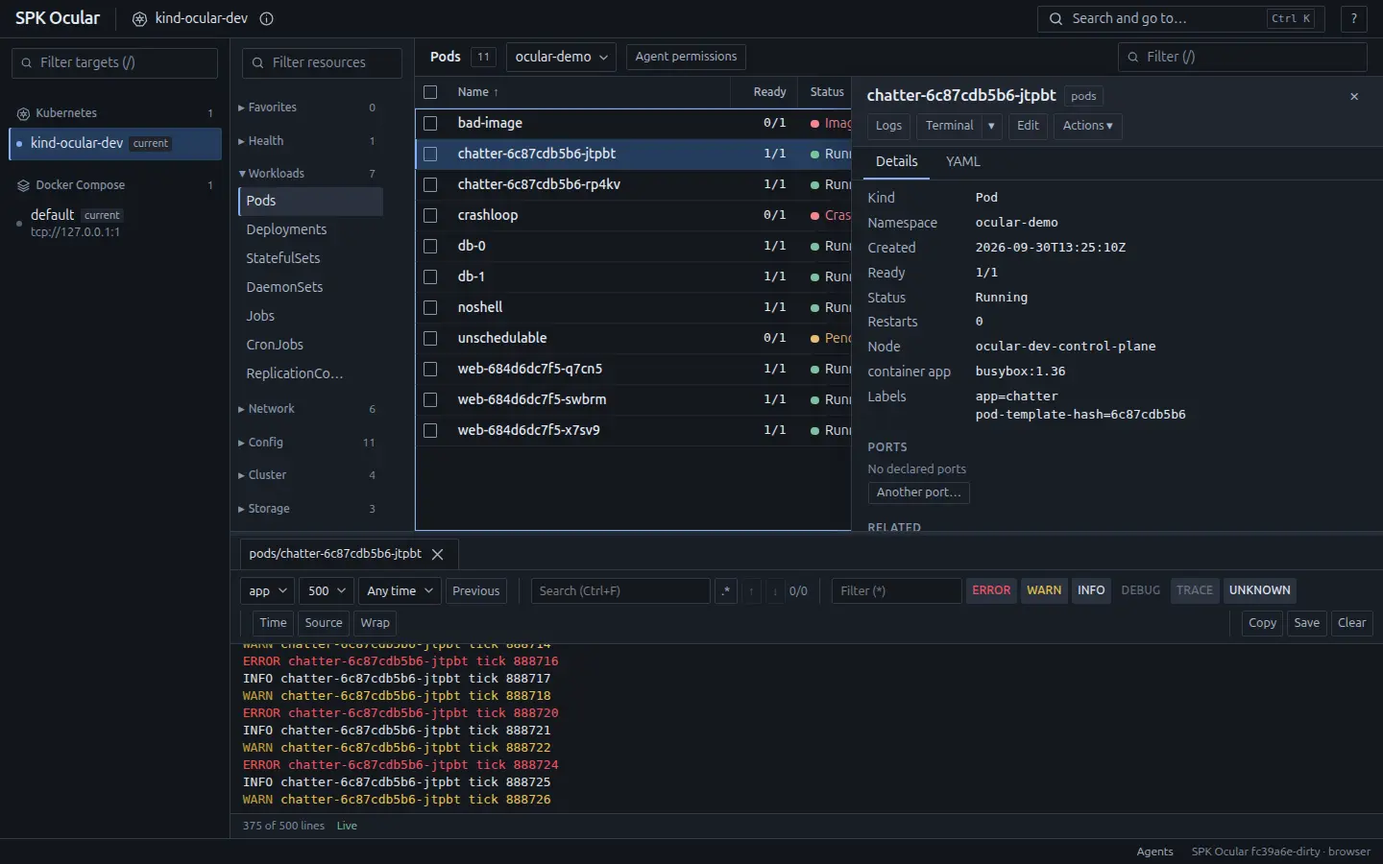
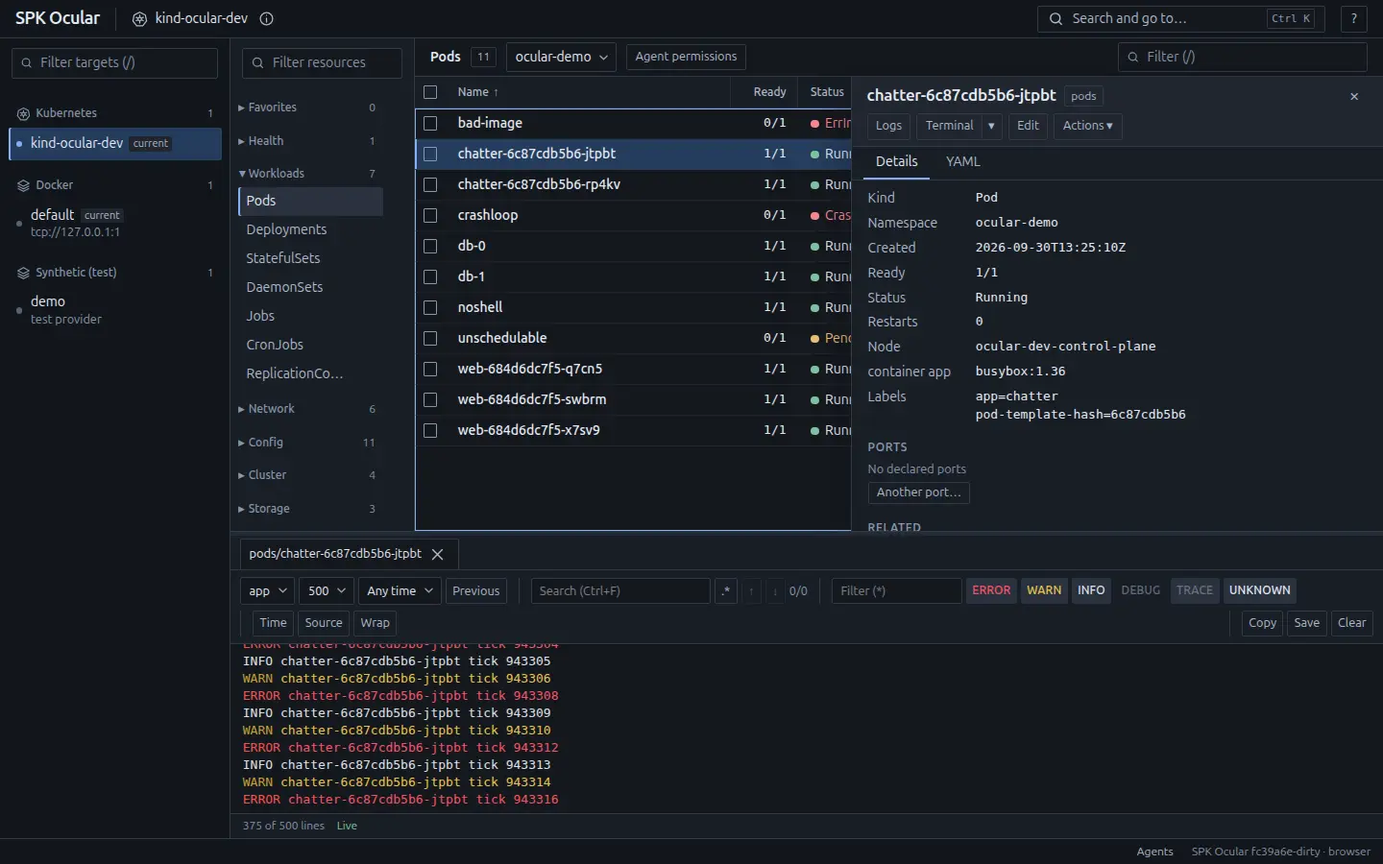
Present Kubernetes and Docker with current product screenshots

diff --git a/src/i18n/copy.ts b/src/i18n/copy.ts
@@ -1,13 +1,13 @@
 export const en = {
-  title: 'SPK Ocular | Free Kubernetes & Docker Compose desktop app',
-  description: 'Inspect Kubernetes and Docker Compose, follow logs and manage Helm releases in one desktop app. All features free for individuals and businesses of any size.',
+  title: 'SPK Ocular | Free Kubernetes & Docker desktop app',
+  description: 'Inspect Kubernetes and Docker, follow logs and manage Helm releases in one desktop app. All features free for individuals and businesses of any size.',
   nav: ['Features', 'Interface', 'Free for everyone'], docs: 'Docs', download: 'Download', theme: 'Switch theme', menu: 'Menu', skip: 'Skip to content',
   eyebrow: 'THE DESKTOP WORKSPACE FOR YOUR INFRASTRUCTURE',
-  hero: ['Kubernetes & Compose.', 'One clear workspace.'],
+  hero: ['Kubernetes & Docker.', 'One clear workspace.'],
   lead: 'Find failing workloads. Follow their logs. Manage your Helm releases. Stay with the problem, from the first warning to the next change.',
   explore: 'See it in action', freeShort: 'All features free. For you and your company.', platforms: 'Linux, Windows & macOS · x86-64 & ARM64',
   heroCaption: 'Your workloads, in focus.', demo: 'Actual app · local demo cluster', syntheticDemo: 'Actual app · simulated Helm release', fullImage: 'Open full-size screenshot',
-  facts: [['Kubernetes + Compose', 'One place for daily operations'], ['No account required', 'Direct access from your computer'], ['Free for any company', 'No revenue or funding limits']],
+  facts: [['Kubernetes + Docker', 'One place for daily operations'], ['No account required', 'Direct access from your computer'], ['Free for any company', 'No revenue or funding limits']],
   overview: 'From “what failed?” to “what next?”', overviewText: 'The details you need to investigate and act, without piecing together a dozen separate windows.',
   workflows: [
     { label: '01 / INVESTIGATE', title: 'Find the workload that needs you.', text: 'Spot unhealthy resources, open related objects and inspect their configuration. See errors and gaps in observation alongside the data you can access.', points: ['Resource health, events and relationships', 'Namespace selection, search and favorites', 'YAML and live resource details'], image: 'health', alt: 'SPK Ocular Problems view on a local Kubernetes demonstration cluster', link: 'Explore resource inspection' },
@@ -15,14 +15,14 @@ export const en = {
     { label: '03 / SHIP & RECOVER', title: 'Helm, from install to rollback.', text: 'Browse charts, choose a version and edit values. Review an upgrade before you run it, inspect release history or roll back to an earlier revision.', points: ['Chart repositories and OCI registries', 'Install, upgrade, rollback and uninstall', 'Embedded Helm. No separate CLI required.'], image: 'helm', alt: 'SPK Ocular Helm release details with values and revision history', link: 'Explore Helm' },
   ],
   toolsTitle: 'The everyday tools, already here.',
-  tools: [['Kubernetes resources', 'Pods, deployments, services and custom resources, with details and relationships.'], ['Docker Compose', 'Inspect existing projects, services and containers alongside your clusters.'], ['Reviewed changes', 'Inspect a change before applying it. Existing infrastructure permissions still apply.'], ['A workspace that remembers', 'Keep namespace selections, filters, favorites and column widths between visits.']],
+  tools: [['Kubernetes resources', 'Pods, deployments, services and custom resources, with details and relationships.'], ['Docker', 'Inspect standalone containers alongside Compose projects and services. Follow logs, open a terminal and review container actions.'], ['Reviewed changes', 'Inspect a change before applying it. Existing infrastructure permissions still apply.'], ['A workspace that remembers', 'Keep namespace selections, filters, favorites and column widths between visits.']],
   gallery: 'A closer look at your next workspace.', galleryText: 'Real screens from the current development build. Demo data, not product mockups.',
-  galleryTabs: ['Workloads', 'Logs & details', 'Helm releases'],
-  galleryAlts: ['Kubernetes pods and health in SPK Ocular on a local demo cluster', 'Kubernetes resource details and application logs in SPK Ocular', 'Helm release values in SPK Ocular using a simulated release'],
+  galleryTabs: ['Workloads', 'Logs & details', 'Helm releases', 'Docker containers'],
+  galleryAlts: ['Kubernetes pods and health in SPK Ocular on a local demo cluster', 'Kubernetes resource details and application logs in SPK Ocular', 'Helm release values in SPK Ocular using a simulated release', 'Standalone Docker container and Compose containers in SPK Ocular on a local demo engine'],
   agentLabel: 'YOUR AGENTS. YOUR RULES.', agentTitle: 'Give your agent useful access. Keep control of changes.',
   agentText: 'Let local coding agents inspect the environment through Ocular. Choose the namespaces, resource kinds and operations they can use, and review actions that require your approval.',
   agentSteps: [['Scope access', 'Choose an environment, namespaces and operations.'], ['Inspect together', 'Give the agent resource and log context for its investigation.'], ['Review the action', 'Approve protected changes, or pause access when the work is done.']],
-  agentBoundary: 'Permissions are shared by local agents running as your OS user. They are not isolated identities or a sandbox.', agentDocs: 'How agent access works',
+  agentBoundary: 'Permissions are shared by local agents running as your OS user. They are not isolated identities or a sandbox. Standalone Docker containers are currently available in the UI only; project grants do not include them.', agentDocs: 'How agent access works',
   localTitle: 'Your infrastructure stays yours.', localText: 'Ocular uses your kubeconfig and Docker contexts and connects directly from your computer. No Ocular account, central management server or in-cluster Ocular component is required.',
   localPoints: [['Your existing access', 'Use the credentials and permissions already configured for your environments.'], ['Open source', 'Read the code, report a bug or contribute under Apache 2.0.']],
   freeLabel: 'NO PAID TIER', freeTitle: 'Every feature. Everyone.', freeText: 'Free for individuals, teams and companies of any size. No limits based on revenue or funding. No seats to license and no features to unlock.',
@@ -35,23 +35,23 @@ export const en = {
   faqTitle: 'Before you make yourself at home.', faqs: [
     ['Is it really free for commercial use?', 'Yes. All features are free for individuals and companies, regardless of size, revenue or funding. There is no paid tier, trial expiry or per-seat subscription. Voluntary cryptocurrency donations support development.'],
     ['Do I need to install anything in my cluster?', 'No Ocular server or cluster component is required. The app uses your existing Kubernetes access. Some capabilities depend on services in your cluster, such as metrics-server for resource metrics.'],
-    ['Does Ocular replace Docker Desktop?', 'No. Ocular works with existing Docker environments and Compose projects. It does not provide a container engine or a virtual machine.'],
+    ['Does Ocular replace Docker Desktop?', 'No. Ocular works with existing Docker engines, standalone containers and Compose projects. It does not provide a container engine or a virtual machine.'],
     ['Do I need to install Helm separately?', 'No. Ocular embeds Helm for browsing charts and managing releases. Kubernetes permissions and access to the chart repository are still required.'],
     ['Can I use it with my coding agent?', 'Yes, through the local agent API. You grant access to selected environments, scopes and operations. Protected writes require review. Grants apply to agents running as your OS user, not authenticated individual agent identities.'],
   ],
-  footer: 'Kubernetes and Compose. On your terms.', source: 'Source code', issues: 'Report an issue', license: 'Apache 2.0',
+  footer: 'Kubernetes and Docker. On your terms.', source: 'Source code', issues: 'Report an issue', license: 'Apache 2.0',
 };
 export type Copy = typeof en;
 export const ru: Copy = {
-  title: 'SPK Ocular | Бесплатное приложение для Kubernetes и Docker Compose',
-  description: 'Kubernetes, Docker Compose, логи и Helm в одном приложении. Все функции бесплатны для людей и компаний любого размера, оборота и финансирования.',
+  title: 'SPK Ocular | Бесплатное приложение для Kubernetes и Docker',
+  description: 'Kubernetes, Docker, логи и Helm в одном приложении. Все функции бесплатны для людей и компаний любого размера, оборота и финансирования.',
   nav: ['Возможности', 'Интерфейс', 'Бесплатно для всех'], docs: 'Документация', download: 'Скачать', theme: 'Сменить тему', menu: 'Меню', skip: 'К содержимому',
   eyebrow: 'РАБОЧЕЕ МЕСТО ДЛЯ ВАШЕЙ ИНФРАСТРУКТУРЫ',
-  hero: ['Kubernetes и Compose.', 'В одном окне.'],
+  hero: ['Kubernetes и Docker.', 'В одном окне.'],
   lead: 'Находите проблемные ресурсы. Разбирайте логи. Управляйте релизами Helm. Всё для работы с окружением: от первого предупреждения до следующего изменения.',
   explore: 'Посмотреть в деле', freeShort: 'Все функции бесплатны. Для вас и вашей компании.', platforms: 'Linux, Windows и macOS · x86-64 и ARM64',
   heroCaption: 'Рабочие нагрузки в центре внимания.', demo: 'Настоящее приложение · локальный демостенд', syntheticDemo: 'Настоящее приложение · тестовый релиз Helm', fullImage: 'Открыть скриншот в полном размере',
-  facts: [['Kubernetes + Compose', 'Единое рабочее пространство'], ['Без аккаунта', 'Прямой доступ с вашего компьютера'], ['Бесплатно для бизнеса', 'Без ограничений по обороту и инвестициям']],
+  facts: [['Kubernetes + Docker', 'Единое рабочее пространство'], ['Без аккаунта', 'Прямой доступ с вашего компьютера'], ['Бесплатно для бизнеса', 'Без ограничений по обороту и инвестициям']],
   overview: 'От «что сломалось?» к «что делать?»', overviewText: 'Ресурсы, события и инструменты для диагностики рядом. Не нужно собирать картину из десятка отдельных окон.',
   workflows: [
     { label: '01 / ДИАГНОСТИКА', title: 'Найдите то, что требует внимания.', text: 'Замечайте проблемы в ресурсах, переходите к связанным объектам и проверяйте конфигурацию. Ошибки доступа и пробелы в наблюдении видны рядом с доступными данными.', points: ['Состояние ресурсов, события и связи', 'Выбор пространств имён, поиск и избранное', 'YAML и актуальные сведения об объектах'], image: 'health', alt: 'Раздел Problems в SPK Ocular с ресурсами локального демостенда Kubernetes', link: 'Подробнее о работе с ресурсами' },
@@ -59,14 +59,14 @@ export const ru: Copy = {
     { label: '03 / РЕЛИЗЫ', title: 'Helm: от установки до отката.', text: 'Выбирайте чарт и версию, редактируйте values и проверяйте обновление перед запуском. История релизов и откат к предыдущей ревизии доступны в том же окне.', points: ['Репозитории чартов и OCI-реестры', 'Установка, обновление, откат и удаление', 'Helm встроен. Отдельный CLI не нужен.'], image: 'helm', alt: 'Карточка релиза Helm в SPK Ocular со значениями и историей ревизий', link: 'Подробнее о Helm' },
   ],
   toolsTitle: 'Рабочие инструменты уже на месте.',
-  tools: [['Ресурсы Kubernetes', 'Pods, deployments, services и пользовательские ресурсы с подробностями и связями.'], ['Docker Compose', 'Существующие проекты, сервисы и контейнеры рядом с вашими кластерами.'], ['Проверка изменений', 'Просматривайте изменения перед применением. Права доступа инфраструктуры продолжают действовать.'], ['Рабочее место с памятью', 'Выбранные пространства имён, фильтры, избранное и ширины колонок сохраняются.']],
+  tools: [['Ресурсы Kubernetes', 'Pods, deployments, services и пользовательские ресурсы с подробностями и связями.'], ['Docker', 'Отдельные контейнеры и проекты с сервисами Compose. Просматривайте логи, открывайте терминал и проверяйте действия с контейнерами.'], ['Проверка изменений', 'Просматривайте изменения перед применением. Права доступа инфраструктуры продолжают действовать.'], ['Рабочее место с памятью', 'Выбранные пространства имён, фильтры, избранное и ширины колонок сохраняются.']],
   gallery: 'Посмотрите, как это устроено.', galleryText: 'Реальные экраны текущей сборки разработки. Демонстрационные данные, не макеты продукта.',
-  galleryTabs: ['Рабочие нагрузки', 'Логи и детали', 'Релизы Helm'],
-  galleryAlts: ['Pods Kubernetes и их состояния в SPK Ocular на локальном демостенде', 'Детали ресурса Kubernetes и логи приложения в SPK Ocular', 'Значения тестового релиза Helm в SPK Ocular'],
+  galleryTabs: ['Рабочие нагрузки', 'Логи и детали', 'Релизы Helm', 'Контейнеры Docker'],
+  galleryAlts: ['Pods Kubernetes и их состояния в SPK Ocular на локальном демостенде', 'Детали ресурса Kubernetes и логи приложения в SPK Ocular', 'Значения тестового релиза Helm в SPK Ocular', 'Отдельный контейнер Docker и контейнеры Compose в SPK Ocular на локальном демостенде'],
   agentLabel: 'ВАШИ АГЕНТЫ. ВАШИ ПРАВИЛА.', agentTitle: 'Дайте агенту контекст. Оставьте контроль себе.',
   agentText: 'Локальные агенты для разработки могут изучать окружение через Ocular. Вы выбираете пространства имён, типы ресурсов и операции, а действия, требующие вашего согласия, проходят подтверждение.',
   agentSteps: [['Задайте границы', 'Выберите окружение, пространства имён и операции.'], ['Разбирайтесь вместе', 'Дайте агенту доступ к ресурсам и логам для диагностики.'], ['Проверьте действие', 'Подтвердите защищённое изменение или приостановите доступ.']],
-  agentBoundary: 'Разрешения общие для локальных агентов вашего пользователя ОС. Это не отдельные учётные записи и не песочница.', agentDocs: 'Как устроен доступ агентов',
+  agentBoundary: 'Разрешения общие для локальных агентов вашего пользователя ОС. Это не отдельные учётные записи и не песочница. Отдельные контейнеры Docker пока доступны только в интерфейсе; разрешения на проекты их не включают.', agentDocs: 'Как устроен доступ агентов',
   localTitle: 'Ваша инфраструктура остаётся вашей.', localText: 'Ocular использует ваши kubeconfig и Docker contexts и обращается к окружениям напрямую с компьютера. Без аккаунта Ocular, центрального сервера управления и установки компонентов Ocular в кластер.',
   localPoints: [['Привычный доступ', 'Работайте с уже настроенными учётными данными и правами ваших окружений.'], ['Открытый код', 'Изучайте исходники, сообщайте об ошибках и участвуйте в разработке по лицензии Apache 2.0.']],
   freeLabel: 'БЕЗ ПЛАТНЫХ ТАРИФОВ', freeTitle: 'Все возможности. Для всех.', freeText: 'Бесплатно для людей, команд и компаний любого размера. Без ограничений по обороту или инвестициям, оплаты за рабочие места и закрытых функций.',
@@ -79,10 +79,10 @@ export const ru: Copy = {
   faqTitle: 'Перед началом работы.', faqs: [
     ['Можно бесплатно использовать в компании?', 'Да. Все функции бесплатны для людей и компаний любого размера, оборота и объёма финансирования. Нет платного тарифа, пробного периода или подписки за рабочие места. Разработку поддерживают добровольные криптопожертвования.'],
     ['Нужно что-то устанавливать в кластер?', 'Сервер или компоненты Ocular не нужны. Приложение использует ваш существующий доступ к Kubernetes. Некоторые возможности зависят от сервисов кластера, например метрики ресурсов требуют metrics-server.'],
-    ['Ocular заменяет Docker Desktop?', 'Нет. Ocular работает с существующими Docker-окружениями и проектами Compose. Приложение не предоставляет контейнерный движок или виртуальную машину.'],
+    ['Ocular заменяет Docker Desktop?', 'Нет. Ocular работает с существующими движками Docker, отдельными контейнерами и проектами Compose. Приложение не предоставляет контейнерный движок или виртуальную машину.'],
     ['Нужно отдельно устанавливать Helm?', 'Нет. Helm встроен в Ocular: можно просматривать чарты и управлять релизами. Права в Kubernetes и доступ к репозиторию чартов по-прежнему необходимы.'],
     ['Можно работать через своего агента для разработки?', 'Да, через локальный API агентов. Вы разрешаете доступ к выбранным окружениям, пространствам имён и операциям. Защищённые изменения требуют подтверждения. Разрешения относятся к агентам вашего пользователя ОС, а не к отдельным аутентифицированным личностям агентов.'],
   ],
-  footer: 'Kubernetes и Compose. Ваше рабочее пространство.', source: 'Исходный код', issues: 'Сообщить об ошибке', license: 'Apache 2.0',
+  footer: 'Kubernetes и Docker. Ваше рабочее пространство.', source: 'Исходный код', issues: 'Сообщить об ошибке', license: 'Apache 2.0',
 };
 export const copy = (lang: 'ru' | 'en') => lang === 'ru' ? ru : en;

diff --git a/README.md b/README.md
@@ -5,7 +5,7 @@ lives on `master`; this worktree does not change its builds or release history.
 
 Astro generates Russian (`/spk-ocular/`) and English (`/spk-ocular/en/`) pages.
 The site keeps Ocular’s logo, variable Inter typography, blue accent and matching
-light/dark colors. Its product-led layout leads with Kubernetes + Docker Compose,
+light/dark colors. Its product-led layout leads with Kubernetes + Docker,
 a large real app screen and unrestricted free commercial use. Investigation,
 logs/terminal/forwarding, Helm and scoped local agent access have dedicated
 sections. Connection retries and low-level persistence mechanics belong in the
@@ -28,9 +28,11 @@ code because the owner has not supplied verified wallet/network details.
 
 Local agent grants apply to processes running as the same OS user. Do not imply
 separate authenticated agent identities or a security sandbox. Kubernetes and
-Compose capabilities are distinct from providing a container runtime. The Helm
+Docker capabilities are distinct from providing a container runtime. The Helm
 section describes the implemented development build, not a separately verified
-published release. The gallery explicitly identifies development screenshots.
+published release. Docker includes standalone containers and Compose project/service
+grouping; it does not supply a runtime. Standalone containers remain UI-only and
+are not included in existing agent project grants. The gallery explicitly identifies development screenshots.
 
 Design references: [Aptakube](https://aptakube.com/) for task-led feature stories
 and large product screens, [Lens](https://lenshq.io/) for product hierarchy, and
@@ -80,7 +82,9 @@ links remain. The site neither uploads user data nor starts any app connection.
 `workloads-{ru,en}.webp`, `logs-{ru,en}.webp` and `health-{ru,en}.webp`
 show read-only inspection of the disposable `kind-ocular-dev` / `ocular-demo`
 fixture. `helm-{ru,en}.webp` shows the built-in synthetic Helm fixture, labeled
-separately. Captures use the current `fc39a6e-dirty` development build with isolated
+separately. `docker-{ru,en}.webp` shows a disposable standalone container
+alongside Compose containers on the verified `ocular-dind` engine. Its temporary
+container is removed after capture. Captures use the current `fc39a6e-dirty` development build with isolated
 HOME, Docker, Ocular and kubeconfig directories. They contain no user environment
 or credentials. WebP conversion preserves the real app image; the UI is not
 reconstructed or generated. Social cards are rendered by `scripts/social.mjs`
